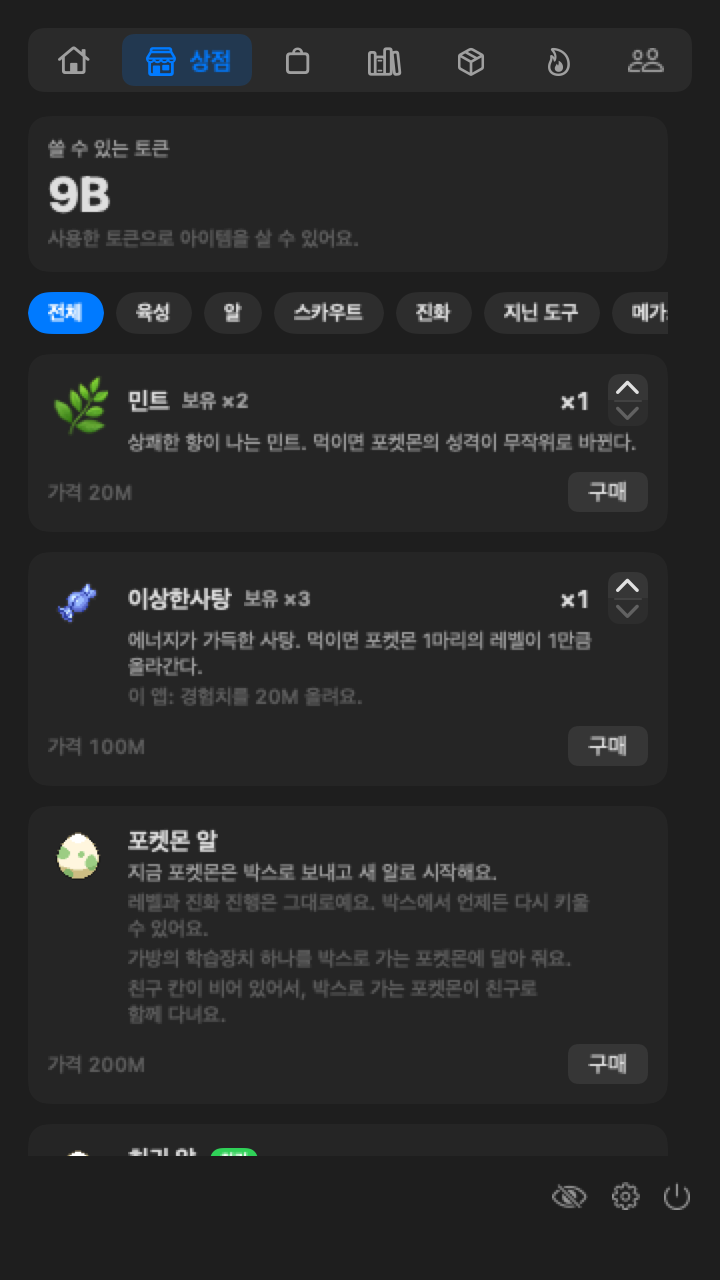
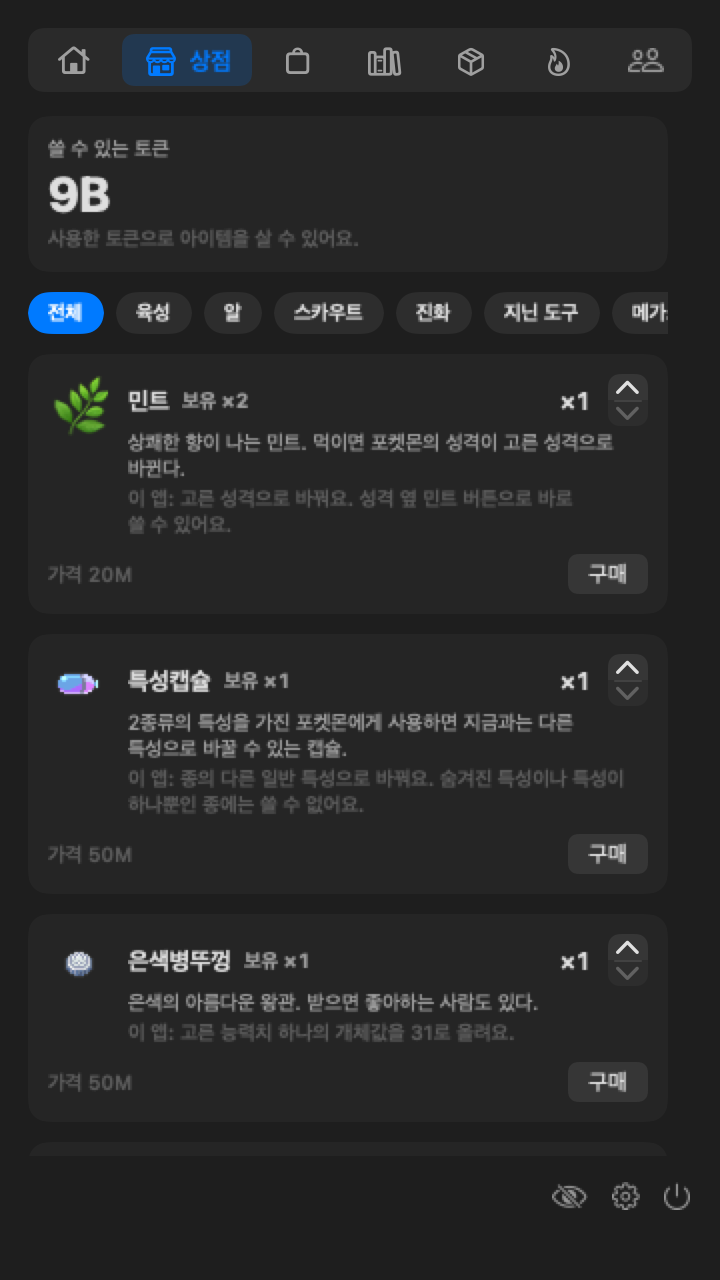
landing: add an ability, nature, IV and form card with the Mint nature chart, and redraw the Shop, Bag and Home images

diff --git a/index.html b/index.html
@@ -18,7 +18,7 @@
 
 <link rel="preload" href="assets/fonts/bricolage-grotesque.ttf" as="font" type="font/ttf" crossorigin>
 <link rel="stylesheet" href="tokens.css?v=48148ac5">
-<link rel="stylesheet" href="styles.css?v=808d4899">
+<link rel="stylesheet" href="styles.css?v=e318899e">
 <script>
 try { var savedTheme=localStorage.getItem('ptb-theme'); if(savedTheme==='dark'||savedTheme==='light') document.documentElement.dataset.theme=savedTheme; } catch (_) {}
 </script>
@@ -80,7 +80,7 @@ try { var savedTheme=localStorage.getItem('ptb-theme'); if(savedTheme==='dark'||
 <div class="feature-group"><h3 data-i18n="grp.collect">Collection and items</h3><div class="group-body"><div class="card-grid">
 <article><h4 data-i18n="c1.t">Pokédex</h4><p data-i18n="c1.d">One cell per species you have owned, 16 per page. Search, sort, filter by rarity, Shiny or region, and earn completion badges.</p></article>
 <article><h4 data-i18n="c2.t">Alternate forms</h4><p data-i18n="c2.d">Collect Rotom appliances, Deerling seasons, Unown letters and other Gen 1–5 forms. A form follows evolution and stays in your save.</p></article>
-<article><h4 data-i18n="c3.t">Token Shop</h4><p data-i18n="c3.d">Spend the tokens you have already used on Rare Candy, nature Mints, a Shiny Charm or a new egg.</p></article>
+<article><h4 data-i18n="c3.t">Token Shop</h4><p data-i18n="c3.d">Spend the tokens you have already used on Rare Candy, a Mint that sets the nature you pick, a Shiny Charm or a new egg.</p></article>
 <article><h4 data-i18n="c4.t">Rare Candy from limits</h4><p data-i18n="c4.d">Fill a 5-hour or weekly limit to earn Rare Candy. Use several at once and preview the growth first.</p></article>
 </div><figure class="group-media"><img src="assets/screenshot-shop.png" data-i18n-image="screenshot-shop" width="720" height="1280" loading="lazy" data-i18n-alt="alt.shop" alt="Native Shop sample showing consumable quantity controls and total price"><figcaption data-i18n="native.shop">Native UI · sample tokens · shop scroll view continues below.</figcaption></figure></div></div>
 <div class="feature-group"><h3 data-i18n="grp.settings">Settings and extras</h3><div class="group-body"><div class="card-grid">
@@ -102,6 +102,7 @@ try { var savedTheme=localStorage.getItem('ptb-theme'); if(savedTheme==='dark'||
 <article class="fork-card"><h3 data-i18n="k15.t">See what comes next</h3><p data-i18n="k15.d">A Pokédex page shows how the species evolves next and what the app asks for, like Munchlax’s 30 pets to become Snorlax. When the Pokémon you raise is on that path, the card shows its progress. On Home, tap the next form to open its page.</p><figure><img src="assets/screenshot-dex-next-evolution.png" data-i18n-image="screenshot-dex-next-evolution" width="720" height="1020" loading="lazy" data-i18n-alt="alt.nextEvo" alt="Native Pokédex page sample for Snorlax with the 30-pet condition at 3/30"><figcaption data-i18n="native.current">Native UI renders · sample states</figcaption></figure></article>
 <article class="fork-card"><h3 data-i18n="k7.t">Held items and Mega Evolution</h3><p data-i18n="k7.d">Equip a held item on a Pokémon’s Box page. The Shop and Bag group battle items by what they do, from attack boosts to weather. A Pokémon holding its Mega Stone Mega Evolves at the start of a battle, and Home, the floating pet and the menu bar show the Mega form.</p><figure class="crop"><img src="assets/screenshot-held-items.png" data-i18n-image="screenshot-held-items" width="720" height="1638" loading="lazy" data-i18n-alt="alt.held" alt="Native Shop and Bag sample with held items under Attack boost and Type boost"><figcaption data-i18n="native.current">Native UI renders · sample states</figcaption></figure></article>
 <article class="fork-card"><h3 data-i18n="k8.t">Moves and TMs</h3><p data-i18n="k8.d">A Pokémon’s Box page lists its four moves, and you can swap one for a level-up, egg or TM move, including status moves like Swords Dance. Buy a TM once in the Shop and every Pokémon that can learn it may use it. Each slot is its own card, and ▲/▼ swap it with its neighbor to set the order.</p><figure class="crop"><img src="assets/screenshot-pokemon-profile.png" data-i18n-image="screenshot-pokemon-profile" width="720" height="1120" loading="lazy" data-i18n-alt="alt.profile" alt="Native Box detail sample with a Pokémon's stats, held item, Exp. Share slot and moves"><figcaption data-i18n="native.current">Native UI renders · sample states</figcaption></figure></article>
+<article class="fork-card"><h3 data-i18n="k16.t">Ability, nature, IVs and form</h3><p data-i18n="k16.d">Your Pokémon can field what a gym trainer’s team does. The Mint opens a 5×5 chart and sets the nature you pick. The Ability Capsule and Patch switch abilities, and Bottle Caps raise IVs to 31. The Reveal Glass, DNA Splicers and Reins of Unity switch forms, and a form brings its own types, ability and stats to battle.</p><figure class="crop crop-low"><img src="assets/screenshot-nature-picker.png" data-i18n-image="screenshot-nature-picker" width="720" height="2240" loading="lazy" data-i18n-alt="alt.naturePicker" alt="Native Box detail sample with the 5×5 nature chart open, the Ability Capsule, Ability Patch and Gold Bottle Cap, and a Bottle Cap on each IV"><figcaption data-i18n="native.current">Native UI renders · sample states</figcaption></figure></article>
 <article class="fork-card"><h3 data-i18n="k9.t">Exp. Share</h3><p data-i18n="k9.d">Attach an Exp. Share to one Pokémon in the Box. It gets 50% of the EXP your current Pokémon or egg earns, so a graduate keeps growing while you raise the next one. When a new egg sends your partner to the Box, an Exp. Share from your Bag goes on it. Move here on a Box page moves a copy from another holder, even with an empty Bag, and a holder in the Box evolves there when the next step needs only EXP, a level, friends or a type.</p><figure><img src="assets/screenshot-exp-share.png" data-i18n-image="screenshot-exp-share" width="720" height="760" loading="lazy" data-i18n-alt="alt.expShare" alt="Native Box detail sample for a stored Bulbasaur with Move here and Attach for the Exp. Share"><figcaption data-i18n="native.current">Native UI renders · sample states</figcaption></figure></article>
 <article class="fork-card"><h3 data-i18n="k11.t">Friends beside your partner</h3><p data-i18n="k11.d">Pick up to two friends from your graduates and the Pokémon waiting in the Box. They stand next to your partner on Home and on the floating pet in their current form, and petting a friend pops a heart over it. When a new egg or a scout sends your partner to the Box while a slot is free, it joins as a friend.</p><figure><img src="assets/screenshot-stored-friends.png" data-i18n-image="screenshot-stored-friends" width="720" height="650" loading="lazy" data-i18n-alt="alt.storedFriends" alt="Native friend picker sample offering a stored Bulbasaur, and Home with that Bulbasaur walking beside Charizard"><figcaption data-i18n="native.current">Native UI renders · sample states</figcaption></figure></article>
 <article class="fork-card"><h3 data-i18n="k10.t">Trades and the Linking Cord</h3><p data-i18n="k10.d">Trade graduated Pokémon with a linked coworker from the Friends tab; the other side accepts in Slack. Trade evolutions such as Haunter or Kadabra wait for a trade, or for a Linking Cord from the Shop. Some also need a held item first, like Onix with a Metal Coat.</p></article>
@@ -194,5 +195,5 @@ try { var savedTheme=localStorage.getItem('ptb-theme'); if(savedTheme==='dark'||
 </ul><p class="note" data-i18n="providers.note">Limits depend on your login: official Claude, Codex and Antigravity limits, OpenCode Go allowances and Grok CLI subscription credits. Devin CLI and Kimi Code record no cost, so their cost shows as unavailable.</p></div></section>
 <section class="section faq"><div class="wrap faq-layout"><h2 data-i18n="faq.title" >A few good questions.</h2><div><details><summary><span data-i18n="faq.free.q" >Is it free?</span></summary><div class="details-body"><p data-i18n="faq.free.a" >Yes. PokeTokenBar is a free, open-source fan project. Shop items use the tokens you’ve already spent on coding, not real-money purchases.</p></div></details><details><summary><span data-i18n="faq.notool.q">Do I need an AI coding tool?</span></summary><div class="details-body"><p data-i18n="faq.notool.a">No. Time mode grows your partner from the time you are active on your Mac. Usage and limit tracking needs at least one supported tool.</p></div></details><details><summary><span data-i18n="faq.privacy.q" >Does it upload my usage logs?</span></summary><div class="details-body"><p data-i18n="faq.privacy.a" >No. Usage logs stay on your Mac. The app still uses the network for provider usage and limits, Pokémon data and sprites, service status and updates. It is not a fully offline app.</p></div></details><details><summary><span data-i18n="faq.cost.q" >Does raising a Pokémon spend extra tokens?</span></summary><div class="details-body"><p data-i18n="faq.cost.a" >No. The app reads usage from your supported coding tools. It doesn’t run model turns to grow your companion.</p></div></details><details><summary><span data-i18n="faq.fork.q">How is this different from PokeTokenBar?</span></summary><div class="details-body"><p data-i18n="faq.fork.a">PokeTokenBar-yp is an unofficial fork of chattymin’s PokeTokenBar (MIT). It adds the features under Only in PokeTokenBar-yp. Report problems with this fork here, not to the original project.</p><a class="text-link" href="https://github.com/chattymin/PokeTokenBar" target="_blank" rel="noopener">chattymin/PokeTokenBar</a></div></details><details><summary><span data-i18n="faq.source.q" >Can I build it myself?</span></summary><div class="details-body"><p data-i18n="faq.source.a" >Yes. The Swift source, build instructions and issue tracker are on GitHub.</p><a class="text-link" href="https://github.com/w8385/PokeTokenBar-yp" target="_blank" rel="noopener">GitHub</a></div></details></div></div></section>
 </main><footer class="site-footer"><div class="wrap"><div class="footer-top"><a class="brand" href="#top"><img src="assets/icon.png" width="32" height="32" alt=""><span>PokeTokenBar</span></a><nav class="footer-links" data-i18n-aria="aria.project" aria-label="Project links"><a data-i18n="footer.source" href="https://github.com/w8385/PokeTokenBar-yp" target="_blank" rel="noopener">Source code</a><a data-i18n="footer.releases" href="https://github.com/w8385/PokeTokenBar-yp/releases" target="_blank" rel="noopener">Release notes</a><a data-i18n="footer.help" href="https://github.com/w8385/PokeTokenBar-yp/issues" target="_blank" rel="noopener">Get help</a><a data-i18n="footer.upstream" href="https://github.com/chattymin/PokeTokenBar" target="_blank" rel="noopener">Original by chattymin</a><a data-i18n="footer.sponsor" href="https://github.com/sponsors/chattymin" target="_blank" rel="noopener">Sponsor</a></nav></div><p data-i18n="foot.disclaimer" class="disclaimer">Pokémon data &amp; sprites by PokéAPI. This is an unofficial, non-commercial fan project. It is not affiliated with, endorsed, sponsored, or approved by Nintendo, Game Freak, or The Pokémon Company. Pokémon and Pokémon character names are trademarks of Nintendo; names, data, and sprites are © Nintendo / Game Freak / The Pokémon Company, used at runtime for identification only. The MIT license covers this project's source code only.</p></div></footer>
-<script src="app.js?v=f541b21e" defer></script>
+<script src="app.js?v=cba54a03" defer></script>
 </body></html>

diff --git a/app.js b/app.js
@@ -129,7 +129,7 @@ const I18N = {
     "c2.t": "Alternate forms",
     "c2.d": "Collect Rotom appliances, Deerling seasons, Unown letters and other Gen 1–5 forms. A form follows evolution and stays in your save.",
     "c3.t": "Token Shop",
-    "c3.d": "Spend the tokens you have already used on Rare Candy, nature Mints, a Shiny Charm or a new egg.",
+    "c3.d": "Spend the tokens you have already used on Rare Candy, a Mint that sets the nature you pick, a Shiny Charm or a new egg.",
     "c4.t": "Rare Candy from limits",
     "c4.d": "Fill a 5-hour or weekly limit to earn Rare Candy. Use several at once and preview the growth first.",
     "alt.shop": "Native Shop sample showing consumable quantity controls and total price",
@@ -172,6 +172,9 @@ const I18N = {
     "k8.t": "Moves and TMs",
     "k8.d": "A Pokémon’s Box page lists its four moves, and you can swap one for a level-up, egg or TM move, including status moves like Swords Dance. Buy a TM once in the Shop and every Pokémon that can learn it may use it. Each slot is its own card, and ▲/▼ swap it with its neighbor to set the order.",
     "alt.profile": "Native Box detail sample with a Pokémon's stats, held item, Exp. Share slot and moves",
+    "k16.t": "Ability, nature, IVs and form",
+    "k16.d": "Your Pokémon can field what a gym trainer’s team does. The Mint opens a 5×5 chart and sets the nature you pick. The Ability Capsule and Patch switch abilities, and Bottle Caps raise IVs to 31. The Reveal Glass, DNA Splicers and Reins of Unity switch forms, and a form brings its own types, ability and stats to battle.",
+    "alt.naturePicker": "Native Box detail sample with the 5×5 nature chart open, the Ability Capsule, Ability Patch and Gold Bottle Cap, and a Bottle Cap on each IV",
     "k9.t": "Exp. Share",
     "k9.d": "Attach an Exp. Share to one Pokémon in the Box. It gets 50% of the EXP your current Pokémon or egg earns, so a graduate keeps growing while you raise the next one. When a new egg sends your partner to the Box, an Exp. Share from your Bag goes on it. Move here on a Box page moves a copy from another holder, even with an empty Bag, and a holder in the Box evolves there when the next step needs only EXP, a level, friends or a type.",
     "alt.expShare": "Native Box detail sample for a stored Bulbasaur with Move here and Attach for the Exp. Share",
@@ -409,7 +412,7 @@ const I18N = {
     "c2.t": "다양한 폼",
     "c2.d": "로토무 가전 폼, 사철록 계절, 안농 문자 같은 1~5세대 폼을 모으세요. 폼은 진화해도 유지되고 저장에도 남아요.",
     "c3.t": "토큰 상점",
-    "c3.d": "이미 쓴 토큰으로 이상한 사탕, 성격을 바꾸는 민트, 빛나는부적, 새 알을 사요.",
+    "c3.d": "이미 쓴 토큰으로 이상한 사탕, 고른 성격으로 바꿔 주는 민트, 빛나는부적, 새 알을 사요.",
     "c4.t": "한도를 채우면 이상한 사탕",
     "c4.d": "5시간이나 주간 한도를 채우면 이상한 사탕을 받아요. 여러 개를 한 번에 쓰고, 쓰기 전에 성장량을 미리 볼 수 있어요.",
     "alt.shop": "소모품 수량과 총가격을 보여 주는 실제 상점 UI 샘플",
@@ -452,6 +455,9 @@ const I18N = {
     "k8.t": "기술과 기술머신",
     "k8.d": "포켓몬의 박스 페이지에 기술 네 개가 나오고, 레벨업·알 기술이나 기술머신 기술로 하나씩 바꿀 수 있어요. 칼춤 같은 변화 기술도 돼요. 기술머신은 상점에서 한 번 사면 배울 수 있는 모든 포켓몬이 쓸 수 있어요. 기술칸은 칸마다 카드로 나뉘고, ▲/▼로 옆 칸과 자리를 바꿔 순서를 정해요.",
     "alt.profile": "능력치·지닌 도구·학습장치 칸·기술을 보여 주는 실제 박스 상세 UI 샘플",
+    "k16.t": "특성·성격·개체값·폼",
+    "k16.d": "체육관 트레이너의 팀이 갖출 수 있는 것은 내 포켓몬도 갖출 수 있어요. 민트는 5×5 성격표를 열고 고른 성격으로 바꿔 줘요. 특성캡슐과 특성패치는 특성을 바꾸고, 병뚜껑은 개체값을 31로 올려요. 비추는거울·유전자쐐기·유대의고삐는 폼을 바꾸고, 폼의 타입·특성·능력치가 그대로 배틀에 나가요.",
+    "alt.naturePicker": "5×5 성격표가 열린 실제 박스 상세 UI 샘플과 특성캡슐·특성패치·금색병뚜껑, 개체값마다 붙은 은색병뚜껑",
     "k9.t": "학습장치",
     "k9.d": "박스 포켓몬 하나에 학습장치를 달아 주세요. 그 포켓몬은 지금 키우는 포켓몬이나 알이 얻는 경험치의 50%를 함께 받아서, 다음 포켓몬을 키우는 동안 졸업한 포켓몬도 계속 자라요. 새 알로 파트너를 박스에 보내면 가방의 학습장치 하나가 그 포켓몬에 달려요. 박스 화면의 여기로 옮기기로 다른 포켓몬의 학습장치를 가져올 수 있고, 가방이 비어 있어도 돼요. 학습장치를 단 박스 포켓몬은 경험치·레벨·친구·타입만 필요한 단계라면 박스에서 진화해요.",
     "alt.expShare": "여기로 옮기기와 달기 버튼이 보이는 박스 속 이상해씨의 실제 상세 UI 샘플",
@@ -689,7 +695,7 @@ const I18N = {
     "c2.t": "さまざまな姿",
     "c2.d": "ロトムの家電フォルム、シキジカの季節、アンノーンの文字など、第1〜5世代の姿を集められます。姿は進化しても変わらず、セーブにも残ります。",
     "c3.t": "トークンショップ",
-    "c3.d": "使い終わったトークンで、ふしぎなアメ、性格を変えるミント、ひかるおまもり、新しいタマゴを買えます。",
+    "c3.d": "使い終わったトークンで、ふしぎなアメ、選んだ性格に変えるミント、ひかるおまもり、新しいタマゴを買えます。",
     "c4.t": "上限を使い切るとふしぎなアメ",
     "c4.d": "5時間か週間の上限を使い切ると、ふしぎなアメがもらえます。まとめて使え、使う前に成長量を確認できます。",
     "alt.shop": "消耗品の数量と合計価格を示す実際のショップUIサンプル",
@@ -732,6 +738,9 @@ const I18N = {
     "k8.t": "わざとわざマシン",
     "k8.d": "ポケモンのボックスページには4つのわざが並び、レベルアップわざ・タマゴわざ・わざマシンのわざと1つずつ入れ替えられます。つるぎのまいのような変化わざも使えます。わざマシンはショップで一度買えば、覚えられるすべてのポケモンが使えます。技の枠は一つずつカードに分かれ、▲/▼で隣の枠と入れ替えて順番を決められます。",
     "alt.profile": "能力値・もちもの・がくしゅうそうちの枠・技を示す実際のボックス詳細UIサンプル",
+    "k16.t": "とくせい・性格・個体値・フォルム",
+    "k16.d": "ジムトレーナーのチームが持てるものは、あなたのポケモンも持てます。ミントは5×5の性格表を開き、選んだ性格に変えます。とくせいカプセルとパッチはとくせいを変え、おうかんは個体値を31に上げます。うつしかがみ・いでんしのくさび・キズナのタヅナはフォルムを変え、フォルムのタイプ・とくせい・能力はそのままバトルに出ます。",
+    "alt.naturePicker": "5×5の性格表を開いた実際のボックス詳細UIサンプルと、とくせいカプセル・とくせいパッチ・きんのおうかん、個体値ごとのぎんのおうかん",
     "k9.t": "がくしゅうそうち",
     "k9.d": "ボックスのポケモン1匹に、がくしゅうそうちをつけます。そのポケモンは、いま育てているポケモンやタマゴが得る経験値の50%を一緒に受け取るので、次のポケモンを育てている間も卒業したポケモンが育ち続けます。新しいタマゴでパートナーをボックスに預けると、バッグのがくしゅうそうちを1つそのポケモンにつけます。ボックス画面の「ここに移す」で、ほかのポケモンのがくしゅうそうちを付け替えられます。バッグが空でもかまいません。がくしゅうそうちをつけたボックスのポケモンは、経験値・レベル・フレンド・タイプだけで進める段階ならボックスで進化します。",
     "alt.expShare": "「ここに移す」と「つける」が見える、ボックスのフシギダネの実際の詳細UIサンプル",

diff --git a/styles.css b/styles.css
@@ -127,6 +127,7 @@ h4 { margin: 0; font-size: 1.0625rem; line-height: 1.3; overflow-wrap: anywhere;
 .fork-card h3 { font-size: 1.1875rem; }
 .fork-card figure { margin-top: var(--space-md); }
 .fork-card .crop img { max-height: 520px; object-fit: cover; object-position: top; }
+.fork-card .crop-low img { object-position: 50% 90%; }
 .fork-card .text-link { display: inline-block; margin-top: var(--space-sm); }
 @media (max-width: 1000px) { .group-body { grid-template-columns: minmax(0,1fr); } .group-media { max-width: 420px; } .fork-grid { grid-template-columns: repeat(2,minmax(0,1fr)); } }
 .companion { background: var(--color-soft); }
